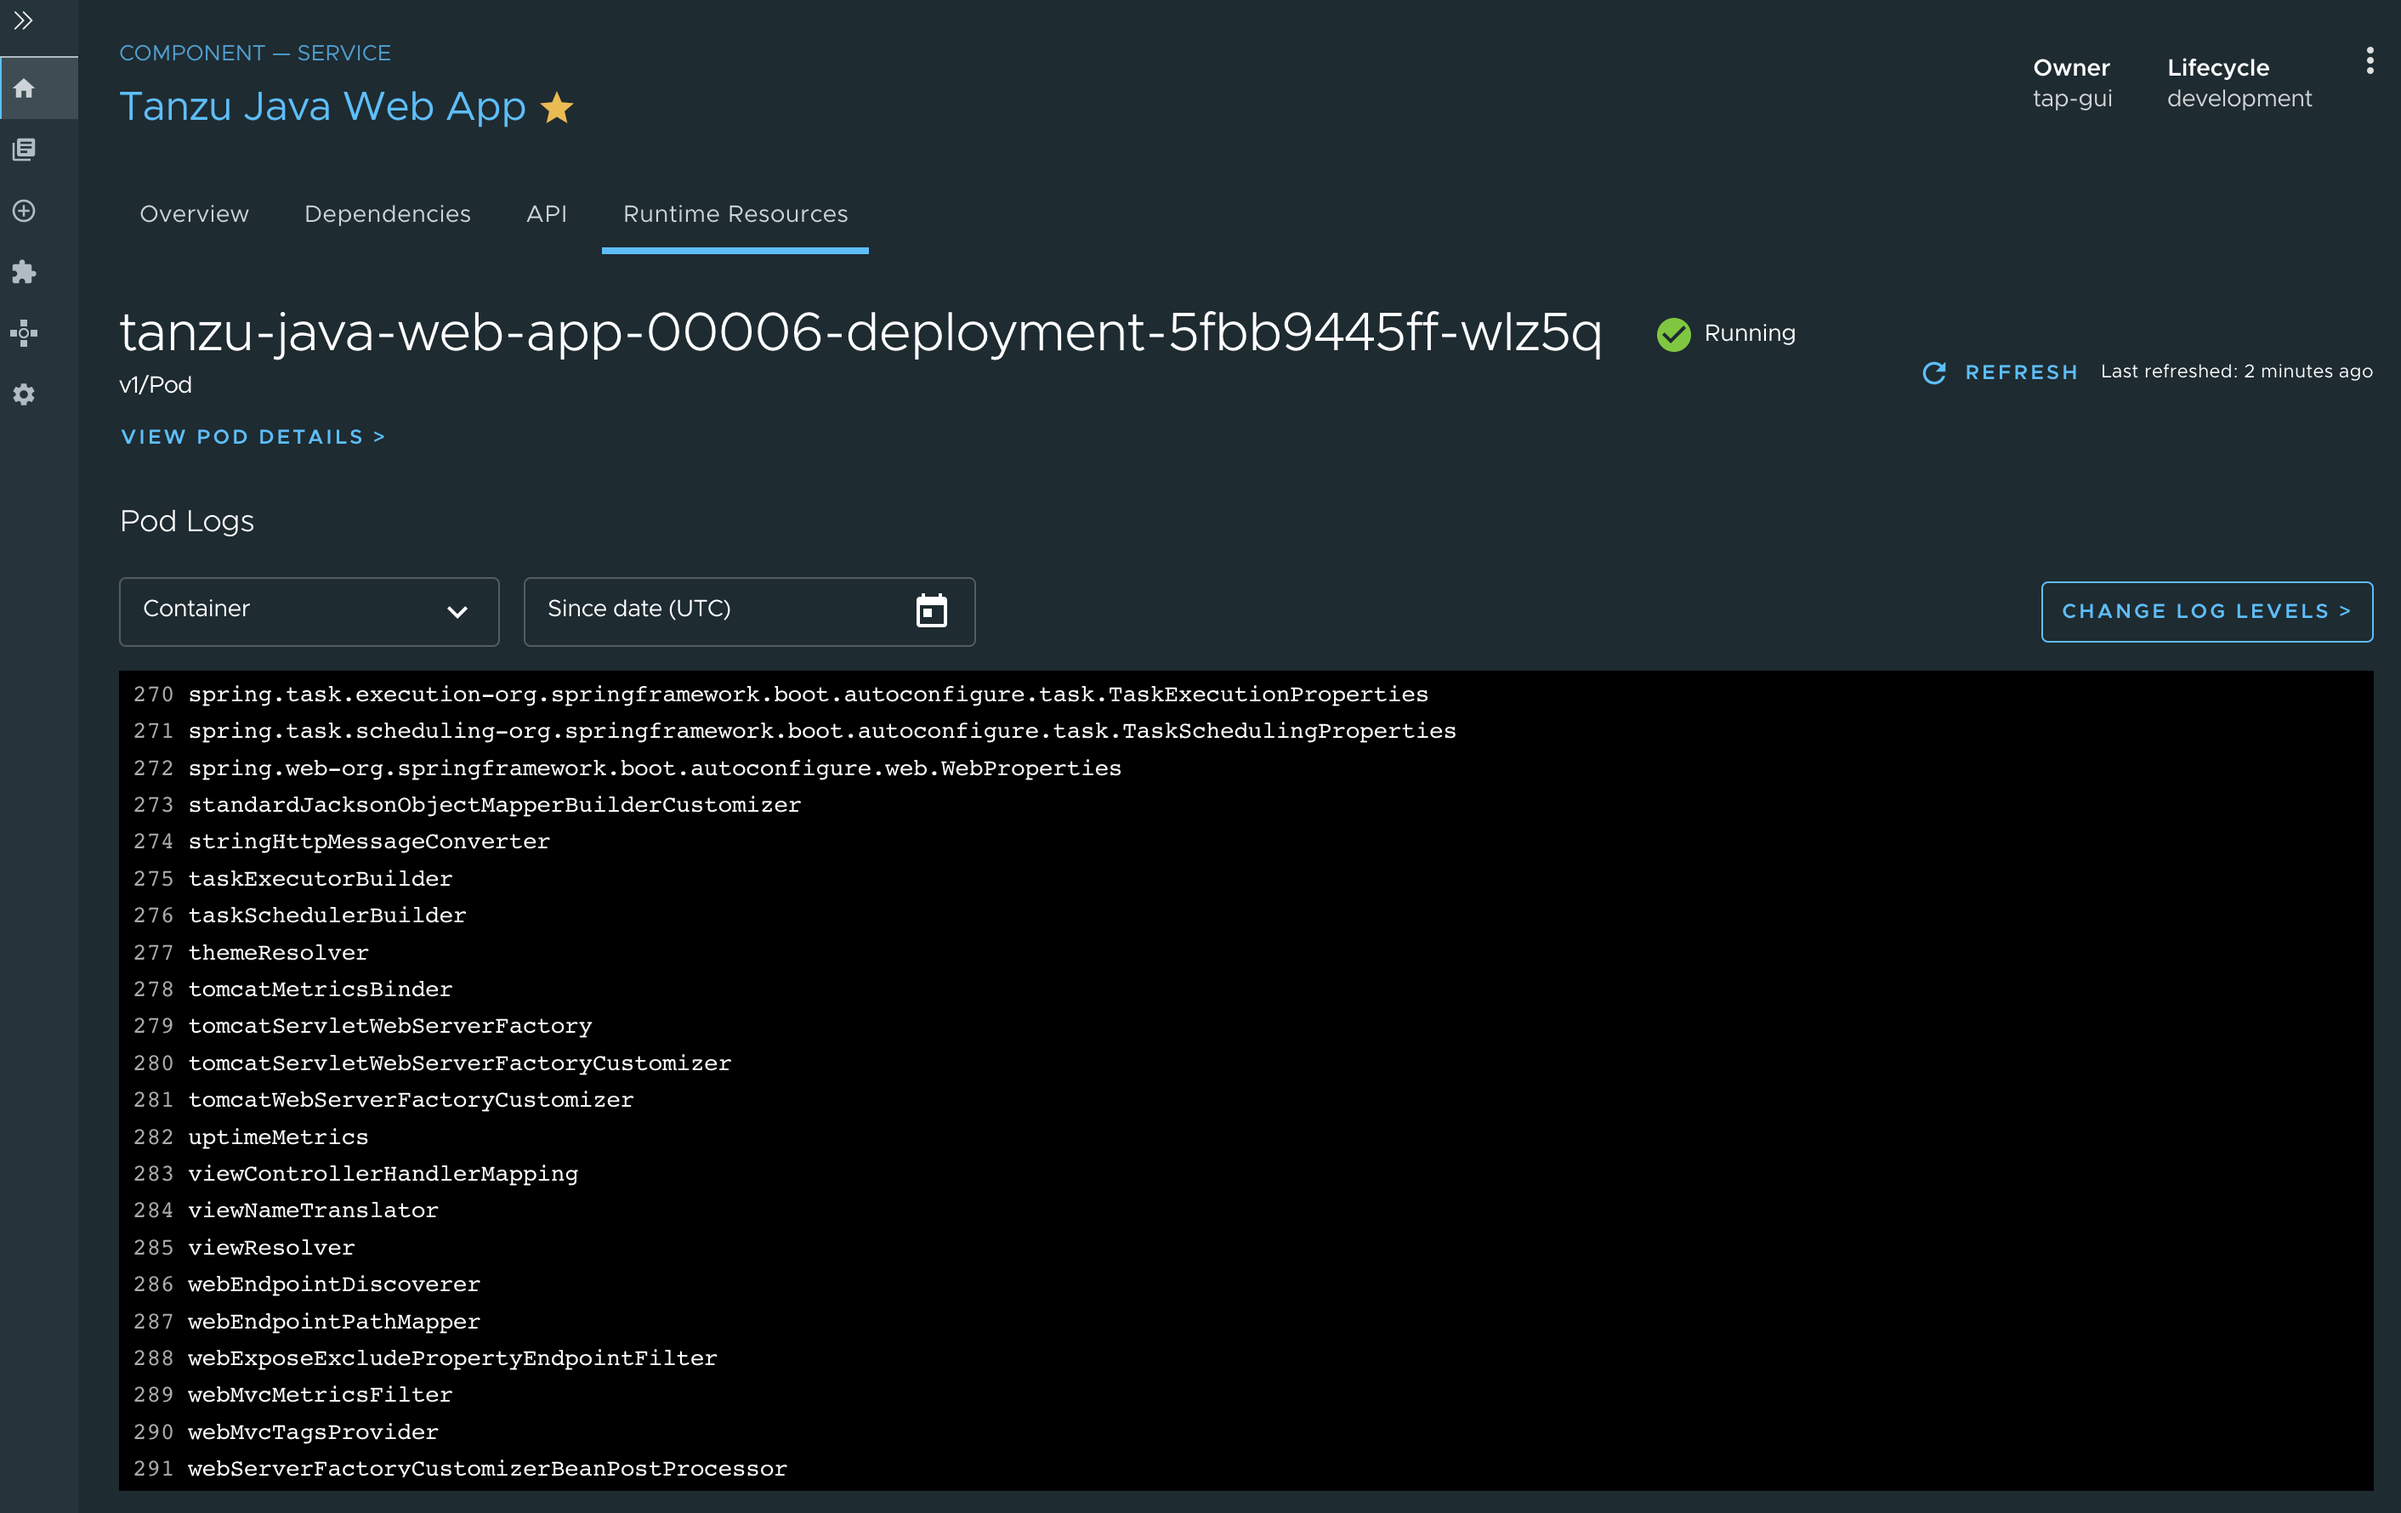
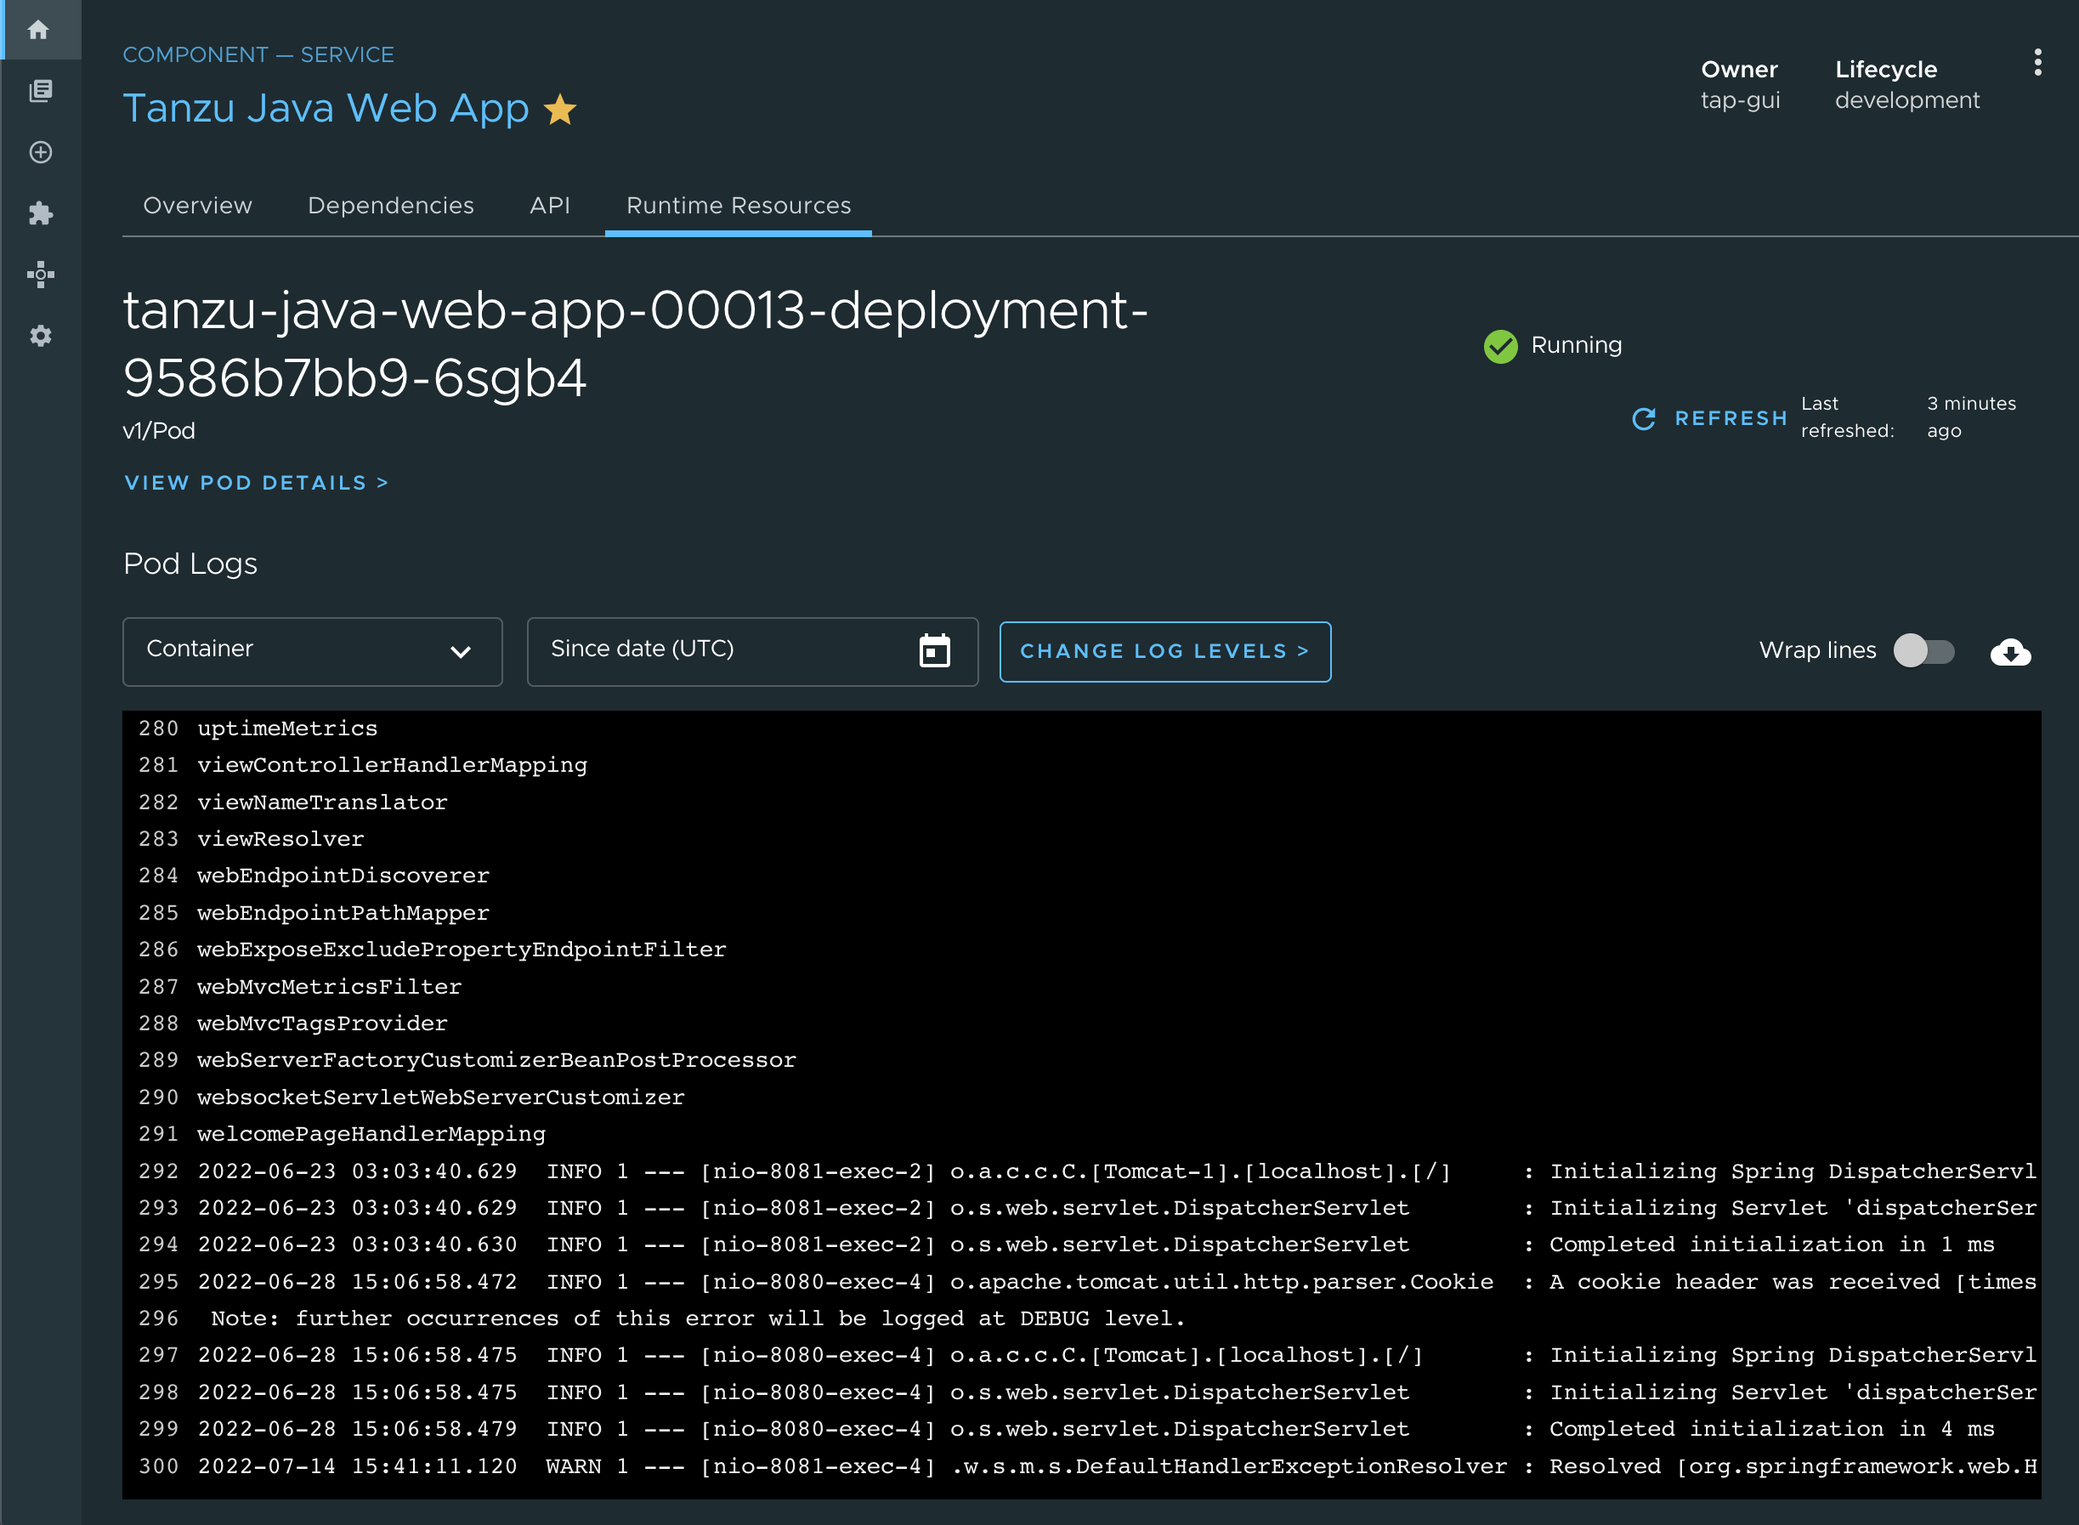
Update docs for pod logs in RRV tab

diff --git a/tap-gui/plugins/runtime-resource-visibility.md b/tap-gui/plugins/runtime-resource-visibility.md
@@ -175,24 +175,27 @@ To view additional information about your running applications, see the
 ## <a id="viewing-pod-logs"></a>Viewing pod logs
 
 To view logs for a pod, click **View Pod Logs** from the **Pod Details** page.
-By default, you see all the logs for the pod since its creation for all the pod's containers.
-
-> **Note:** The logs displayed are not streamed in real time. To fetch new log entries, click
-> **Refresh** in the upper right corner of the page.
+By default, you'll be presented with logs for the pod since its creation, for all the pod's containers.
 
 ![Screenshot of Pod Logs page, which displays information for Tanzu Java Web App](images/runtime-resources-pod-logs.png)
+
+### <a id="viewing-pod-logs--pause-resume"></a>Pausing and resuming logs
+
+Log entries are streamed in real time, with new entries appearing at the bottom of the log content area. Scrolling up or to the right by any amount in the log content area will pause the log stream, allowing you to focus on specific entries. A **Follow Latest** button will appear at the bottom of the log content area to indicate that the log stream is paused. To resume receiving the latest entries, simply click this button.
 
 ### <a id="filter-by-container"></a>Filtering by container
 
 To display logs for a specific container only, select the desired container from the **Container**
-drop-down menu. Deselecting this drop-down menu causes logs for all containers within the pod to appear.
+drop-down menu. Clearing the selected container causes logs for all containers within the pod to appear.
 
 ### <a id="filter-by-date-and-time"></a>Filtering by date and time
 
 To see all logs since a specific date and time, select or type the UTC timestamp in the
 **Since date** field.
 If no logs are displayed, adjust the timestamp to an earlier time.
-Deselect this field to see all logs created since the pod was created.
+Clear this field to see all logs produced since the pod was created.
+
+> **Note:** For performance reasons, the pod logs page limits the total number of log entries displayed to the most recent 10,000.
 
 ### <a id="changing-log-levels"></a>Changing log levels
 
@@ -202,17 +205,29 @@ You then see a panel that allows you to select levels for each logger associated
 
 ![Screenshot of the log levels panel. Info is selected for each logger.](images/runtime-resources-pod-log-levels.png)
 
-To change the levels for your application, select the desired level for each logger presented and then
+To change the levels for your application, select the desired level for each logger presented, then
 close the panel by clicking **X** in the upper right corner of the panel or by pressing
 the Escape key on your keyboard.
 
-Because adjusting log levels makes a real-time configuration change to your application, log-level
+Because adjusting log levels makes a real-time configuration change to your application, log level
 adjustments are only reflected in log entries that your application produces after the change.
-Click **Refresh** in the upper right corner of the page to fetch new messages after changing log levels.
 
-After refreshing, if no log entries for the expected levels appear, ensure that:
+If no log entries for the expected levels appear, ensure that:
 
 1. You adjusted the correct application loggers
 1. You are viewing logs for the correct container and time frame
-1. Your application is producing logs at the expected levels. Your application might be idling or
-otherwise not running a code path that starts the desired logger.
+1. Your application is currently producing logs at the expected levels
+
+### <a id="viewing-pod-logs--line-wrapping"></a>Line wrapping
+
+By default, log lines will not be wrapped. To enable or disable line wrapping, click the **Wrap lines** toggle.
+
+### <a id="viewing-pod-logs--downloading"></a>Downloading logs
+
+To download current log content, click the **Download logs** button.
+
+> **Note:** For performance reasons, the pod logs page limits the total number of log entries downloaded to the most recent 10,000.
+
+### <a id="viewing-pod-logs--connection-interruptions"></a>Connection interruptions
+
+If the log stream connection is interrupted for any reason (for example, due to a network error), an error message will be displayed at the top of the page. Click the **Refresh** button in the upper right to attempt reconnection.
